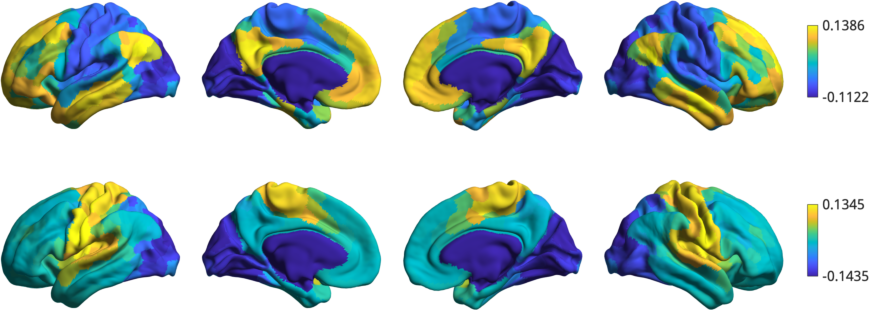
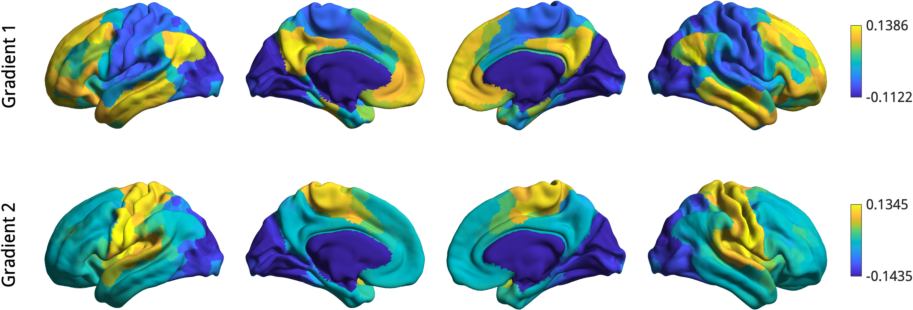
Updated tutorial 1 figures, fix plot_hemisphere

diff --git a/matlab/plot_data/plot_hemispheres.m b/matlab/plot_data/plot_hemispheres.m
@@ -95,9 +95,11 @@ for ii = 1:size(D,2)
     h.cb(ii).FontSize = 14;
 end
 
-% Add labels         
-for ii = 1:numel(label_text)
-    h.text(ii) = text(h.axes(1,ii),-.2,.5,label_text{ii},'Rotation',90, ...
-        'Units','Normalized','HorizontalAlignment','center', 'FontName', ...
-        'DroidSans','FontSize',18);
+% Add labels   
+if exist('label_text','var')
+    for ii = 1:numel(label_text)
+        h.text(ii) = text(h.axes(1,ii),-.2,.5,label_text{ii},'Rotation',90, ...
+            'Units','Normalized','HorizontalAlignment','center', 'FontName', ...
+            'DroidSans','FontSize',18);
+    end
 end

diff --git a/docs/pages/matlab_doc/examples/tutorial_1_gradient_creation.rst b/docs/pages/matlab_doc/examples/tutorial_1_gradient_creation.rst
@@ -51,7 +51,9 @@ a look at the first two gradients.
 .. code-block:: matlab
 
     plot_hemispheres(gm.gradients{1}(:,1:2),{surf_lh,surf_rh}, ...
-                     'parcellation', labeling);
+                 'parcellation', labeling, ...
+                 'labeltext',{'Gradient 1','Gradient 2'});
+
 
 .. image:: ./example_figs/g1-2_schaefer_400.png
     :scale: 70%
